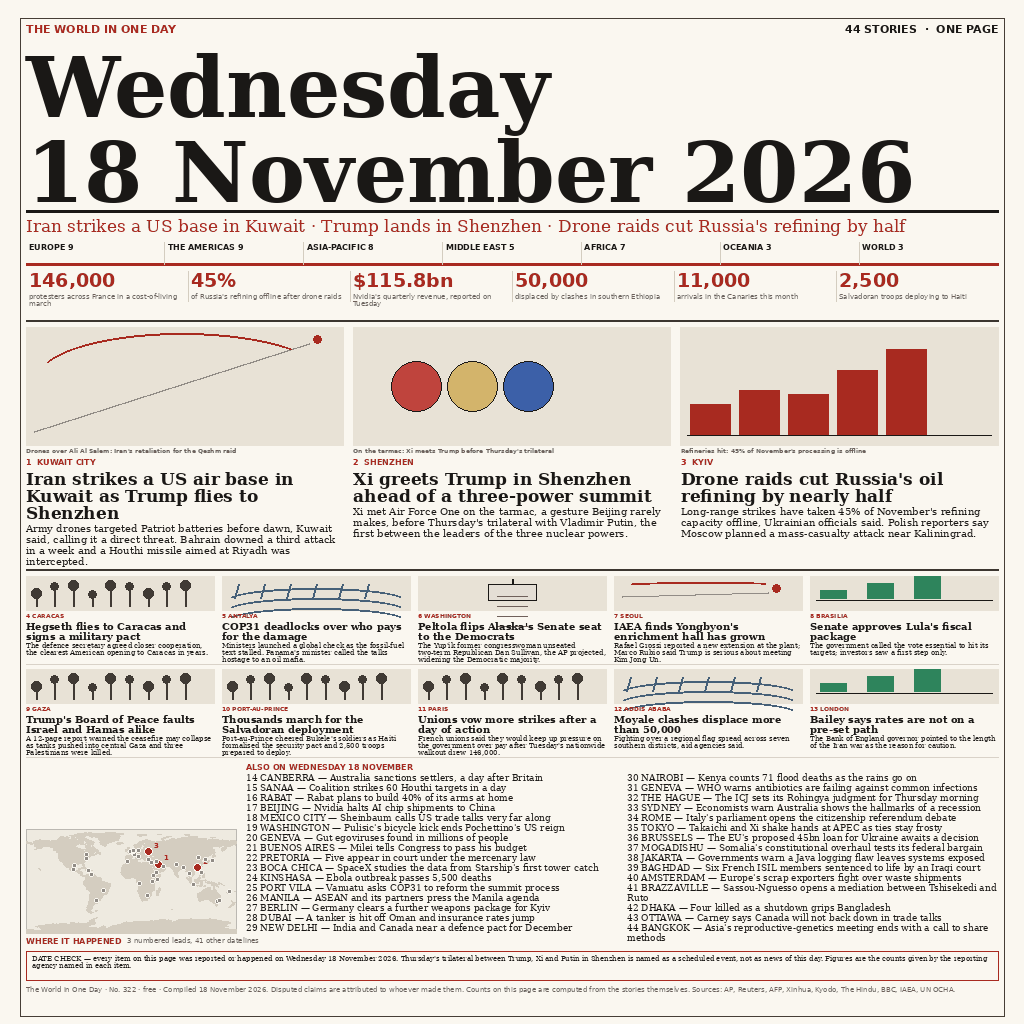
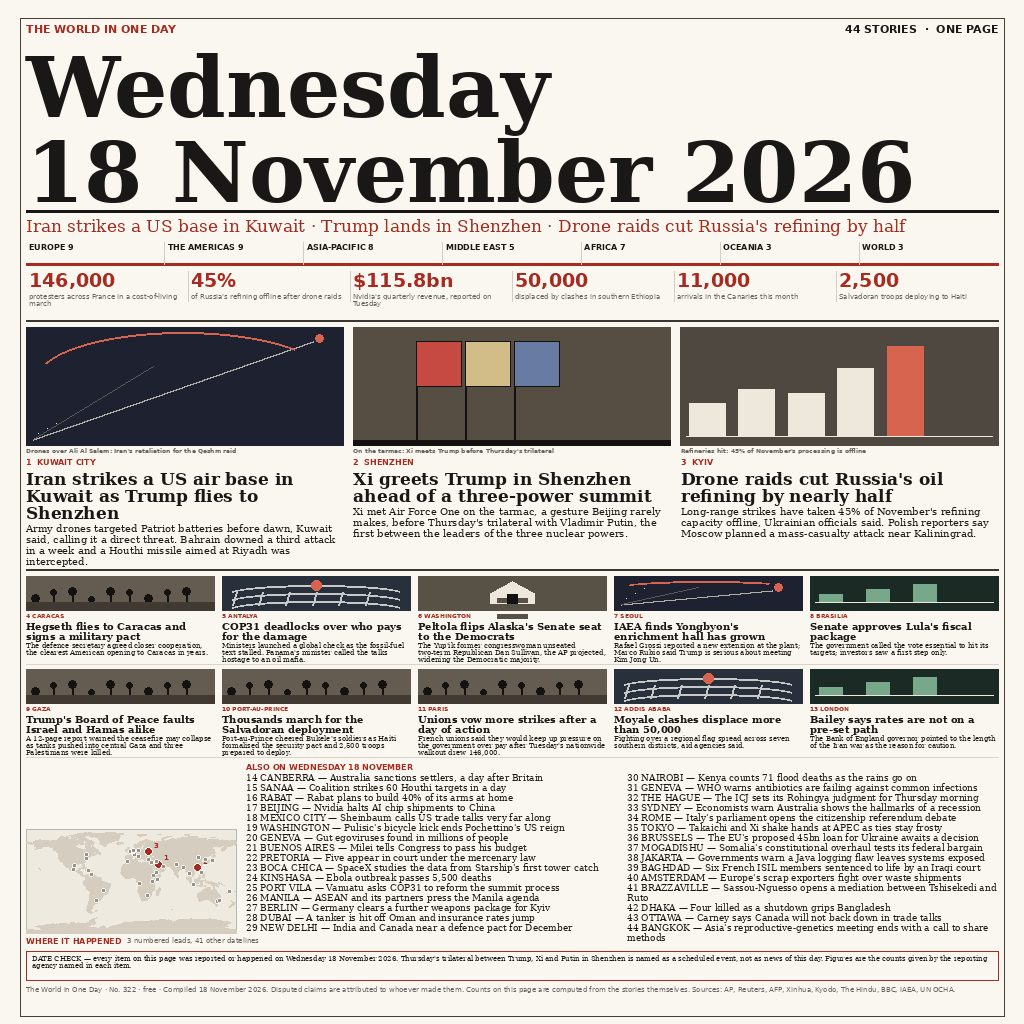
Repaint the illustrations as printed picture grounds

Changed region(s): [[0.0, 0.3125, 1.0, 0.4375], [0.0, 0.5625, 1.0, 0.625], [0.0, 0.6562, 1.0, 0.6875]]

diff --git a/render.py b/render.py
@@ -153,83 +153,123 @@ def draw_map(draw, box, dots, labelled=14):
 
 # ------------------------------------------------------------- artwork -------
 
+# Panel grounds. A newspaper front runs pictures as solids, not pale line art:
+# the paid band on this board sits at 21-31% ink coverage with 3.5-13.7% of the
+# page in near-black, so each kind gets a printed-photograph ground and draws
+# its marks against it. Every ground is darker than the 170 ink threshold, so
+# the panel carries weight at 300 px across.
+GROUNDS = {
+    "missile": (30, 34, 48),
+    "storm":   (40, 48, 60),
+    "flags":   (86, 78, 66),
+    "crowd":   (100, 92, 80),
+    "money":   (28, 42, 38),
+    "chart":   (78, 72, 64),
+    "court":   (88, 82, 70),
+    "skyline": (52, 40, 66),
+    "candles": (34, 40, 44),
+}
+
+
 def art_panel(draw, box, kind, accent=RED):
-    """A small flat-vector illustration, captioned by the caller."""
+    """A flat-vector picture on a printed ground, captioned by the caller."""
     x0, y0, x1, y1 = box
     w, h = x1 - x0, y1 - y0
-    draw.rectangle(box, fill=(232, 226, 214))
+    g = GROUNDS.get(kind, (40, 36, 32))
+    light = (238, 232, 220)
+    mid = (186, 178, 164)
+    warm = (214, 100, 78)
+    green = (96, 172, 128)
+    dark = (20, 18, 16)
+    draw.rectangle(box, fill=g)
 
     if kind == "chart":
-        base = y1 - 10
+        base = y1 - 9
+        bw = max(3, (w - 24) // 8)
         for i, frac in enumerate((0.34, 0.48, 0.44, 0.7, 0.92)):
-            bx = x0 + 10 + i * (w - 22) // 6
-            bh = int((h - 24) * frac)
-            draw.rectangle((bx, base - bh, bx + (w - 34) // 7, base), fill=accent)
-        draw.line((x0 + 7, base, x1 - 7, base), fill=INK, width=1)
+            bx = x0 + 9 + i * (w - 20) // 6
+            bh = int((h - 20) * frac)
+            draw.rectangle((bx, base - bh, bx + bw, base),
+                           fill=warm if i == 4 else light)
+        draw.line((x0 + 6, base, x1 - 6, base), fill=light, width=1)
 
     elif kind == "flags":
-        r = int(min(h - 20, w / 6.2))
+        # three flagstaffs on a lit platform, the leaders' row
+        r = max(6, int(min(h - 18, w / 7.0)))
         cy = y0 + h // 2
-        for i, c in enumerate([(196, 58, 52), (214, 176, 60), (60, 96, 168)]):
-            cx = x0 + w // 5 + i * (r + 5)
-            draw.ellipse((cx - r // 2, cy - r // 2, cx + r // 2, cy + r // 2), fill=c, outline=INK)
+        for i, c in enumerate([(198, 74, 66), (226, 188, 74), (92, 126, 196)]):
+            cx = x0 + w // 5 + i * (r + 4)
+            draw.line((cx, cy - r // 2 - 3, cx, y1 - 6), fill=dark, width=2)
+            draw.rectangle((cx, cy - r, cx + r, cy), fill=c, outline=dark)
+        draw.rectangle((x0, y1 - 5, x1, y1), fill=dark)
 
     elif kind == "skyline":
-        draw.rectangle((x0, y1 - int(h * 0.34), x1, y1), fill=(56, 42, 76))
-        for i, frac in enumerate((0.32, 0.5, 0.38, 0.6, 0.44, 0.54, 0.35)):
-            bw = w // 9
-            bx = x0 + 5 + i * bw
+        draw.rectangle((x0, y1 - int(h * 0.30), x1, y1), fill=dark)
+        for i, frac in enumerate((0.34, 0.52, 0.4, 0.62, 0.46, 0.56, 0.36)):
+            bw = max(4, w // 9)
+            bx = x0 + 4 + i * bw
             bh = int(h * frac)
-            draw.rectangle((bx, y1 - int(h * 0.24) - bh, bx + bw - 5, y1 - int(h * 0.24)),
-                           fill=(32, 24, 46))
-        draw.ellipse((x1 - 40, y0 + 8, x1 - 18, y0 + 30), fill=(226, 150, 74))
+            draw.rectangle((bx, y1 - int(h * 0.22) - bh, bx + bw - 4, y1 - int(h * 0.22)),
+                           fill=(14, 12, 22))
+            for wy in range(y1 - int(h * 0.22) - bh + 4, y1 - int(h * 0.24), 7):
+                draw.point((bx + 2, wy), fill=(228, 196, 120))
+        draw.ellipse((x1 - 34, y0 + 7, x1 - 18, y0 + 23), fill=(232, 206, 150))
 
     elif kind == "candles":
-        draw.line((x0 + 6, y0 + h // 2, x1 - 6, y0 + h // 2), fill=GREY)
-        xs = (0.12, 0.3, 0.48, 0.66, 0.84)
+        draw.line((x0 + 5, y0 + h // 2, x1 - 5, y0 + h // 2), fill=mid)
+        xs = (0.14, 0.31, 0.48, 0.65, 0.82)
         body = (0.32, 0.44, 0.38, 0.6, 0.82)
+        cw = max(3, w // 18)
         for i, frac in enumerate(body):
             cx = x0 + int(w * xs[i])
-            top = y1 - 12 - int((h - 22) * frac)
-            up = i % 2 == 0
-            draw.line((cx, top - 4, cx, top + 10 + (h // 5)), fill=INK)
-            draw.rectangle((cx - 4, top, cx + 4, top + 10 + h // 6),
-                           fill=(46, 132, 92) if up else accent)
+            top = y1 - 8 - int((h - 16) * frac)
+            draw.line((cx, top - 3, cx, top + 8 + h // 5), fill=mid, width=1)
+            draw.rectangle((cx - cw, top, cx + cw, top + 8 + h // 7),
+                           fill=green if i % 2 == 0 else warm)
 
     elif kind == "storm":
         for i in range(3):
-            yy = y0 + 12 + i * 10
-            draw.arc((x0 + 6, yy, x1 - 6, yy + 24), 196, 344, fill=(70, 96, 120), width=2)
+            yy = y0 + 9 + i * (h // 4)
+            draw.arc((x0 + 7, yy, x1 - 7, yy + (h // 2)), 196, 344,
+                     fill=(198, 204, 212), width=2)
+        draw.ellipse((x0 + w // 2 - 5, y0 + 4, x0 + w // 2 + 5, y0 + 14), fill=warm)
         for i in range(6):
-            xx = x0 + 16 + i * (w - 32) // 6
-            draw.line((xx, y1 - 26, xx - 4, y1 - 12), fill=(70, 96, 120), width=2)
+            xx = x0 + 14 + i * (w - 28) // 6
+            draw.line((xx, y1 - 18, xx - 4, y1 - 5), fill=(176, 190, 204), width=2)
 
     elif kind == "court":
         cx = x0 + w // 2
-        draw.rectangle((cx - 24, y0 + 8, cx + 24, y1 - 10), fill=(226, 220, 206), outline=INK)
-        for i in range(4):
-            yy = y0 + 20 + i * 10
-            draw.line((cx - 15, yy, cx + 15, yy), fill=GREY)
-        draw.line((cx, y0 + 3, cx, y0 + 8), fill=INK, width=2)
+        draw.polygon([(cx, y0 + 5), (cx - 22, y0 + 17), (cx + 22, y0 + 17)], fill=light)
+        draw.rectangle((cx - 22, y0 + 17, cx + 22, y1 - 7), fill=light)
+        for i in range(3):
+            yy = y0 + 22 + i * 8
+            draw.rectangle((cx - 15, yy, cx + 15, yy + 4), fill=g)
+        draw.rectangle((cx - 5, y1 - 16, cx + 5, y1 - 7), fill=dark)
 
     elif kind == "missile":
-        draw.line((x0 + 8, y1 - 14, x1 - 34, y0 + 16), fill=(150, 140, 128), width=2)
-        draw.arc((x0 + 12, y0 + 6, x1 - 18, y1 - 24), 200, 320, fill=accent, width=2)
-        draw.ellipse((x1 - 30, y0 + 8, x1 - 22, y0 + 16), fill=accent)
+        # a rising trail and the intercept
+        draw.line((x0 + 7, y1 - 6, x1 - 30, y0 + 14), fill=mid, width=2)
+        draw.line((x0 + 7, y1 - 6, x0 + 22 + w // 3, y0 + h // 3), fill=(96, 92, 86), width=1)
+        draw.arc((x0 + 10, y0 + 5, x1 - 14, y1 - 18), 200, 320, fill=warm, width=2)
+        draw.ellipse((x1 - 28, y0 + 7, x1 - 20, y0 + 15), fill=warm)
+        for i in range(3):
+            draw.point((x0 + 12 + i * 9, y1 - 12 - i * 5), fill=light)
 
     elif kind == "money":
+        bw = max(4, w // 8)
         for i in range(3):
-            bx = x0 + 10 + i * (w // 4)
-            draw.rectangle((bx, y1 - 20 - i * 7, bx + w // 7, y1 - 12), fill=(46, 132, 92))
-        draw.line((x0 + 6, y1 - 10, x1 - 6, y1 - 10), fill=INK)
+            bx = x0 + 9 + i * (w // 4)
+            draw.rectangle((bx, y1 - 16 - i * 5, bx + bw, y1 - 9), fill=green)
+        draw.line((x0 + 5, y1 - 8, x1 - 5, y1 - 8), fill=light, width=1)
 
     elif kind == "crowd":
         for i in range(9):
-            cx = x0 + 10 + i * (w - 20) // 9
-            r = 4 if i % 2 else 5
-            yy = y1 - 12 - (8 if i % 3 else 0)
-            draw.ellipse((cx - r, yy - 2 * r, cx + r, yy), fill=(64, 58, 52))
-            draw.line((cx, yy, cx, y1 - 4), fill=(64, 58, 52), width=2)
+            cx = x0 + 9 + i * (w - 18) // 9
+            r = 3 if i % 2 else 4
+            yy = y1 - 8 - (7 if i % 3 else 0)
+            draw.ellipse((cx - r, yy - 2 * r, cx + r, yy), fill=dark)
+            draw.line((cx, yy, cx, y1 - 3), fill=dark, width=2)
+        draw.rectangle((x0, y1 - 8, x1, y1), fill=(64, 58, 50))
 
     return box
 
@@ -240,7 +280,6 @@ def art_caption(draw, box, text, width):
     d_y = box[3] + 2
     draw.text((box[0], d_y), text, font=f, fill=GREY)
     return d_y + 8
-
 
 # ---------------------------------------------------------------- page -------
 
